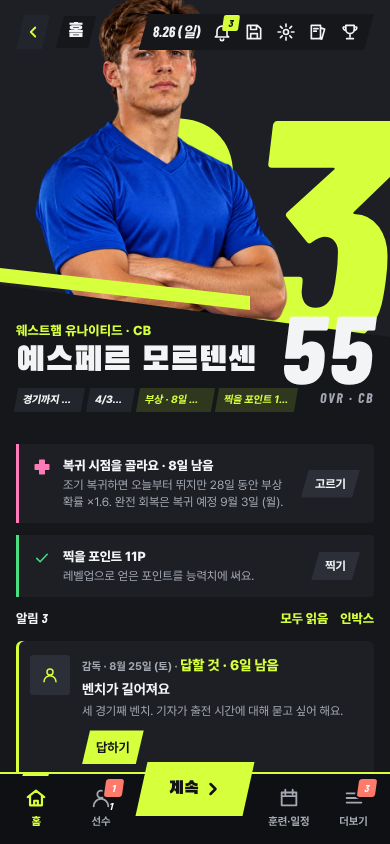
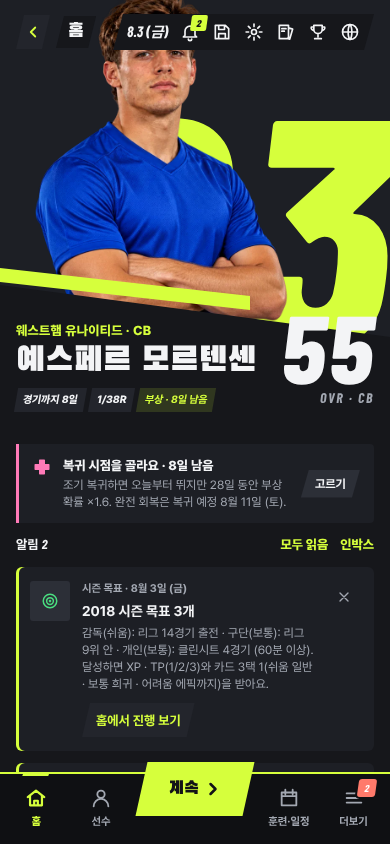
C.76g 부상 중 머리말 칩 3칸 (디자인 228) · 확인 캡처 갱신
Claude-Session: https://claude.ai/code/session_01GFKvV2Dv2EbtMM1ifZ9Gi3

diff --git a/src/ui/views/home.ts b/src/ui/views/home.ts
@@ -26,7 +26,8 @@ function heroChips(vm: HomeVM): (string | { label: string; soft?: boolean })[] {
       : [{ label: '시즌 종료', soft: true }]),
     // C.76g (디자인 228): 부상 중이면 남은 날 라임 칩
     ...(vm.injuryDays ? [{ label: `부상 · ${vm.injuryDays}일 남음`, soft: true }] : []),
-    ...(vm.points > 0 ? [{ label: `찍을 포인트 ${vm.points}P`, soft: true }] : []),
+    // 부상 칩이 있으면 포인트 칩은 빼서 3칸(디자인 228) — 포인트는 바로 아래 배너에도 있음
+    ...(vm.points > 0 && !vm.injuryDays ? [{ label: `찍을 포인트 ${vm.points}P`, soft: true }] : []),
   ];
   // 챕터 칩 (C.73a)은 칸이 남을 때만 — 한 줄 칩(C.75u)이 4개를 넘으면 모두 말줄임이 돼서 (디자인 211·228 = 3칸)
   return chips.length < 3 ? [...chips, { label: vm.chapter, soft: true }] : chips;
